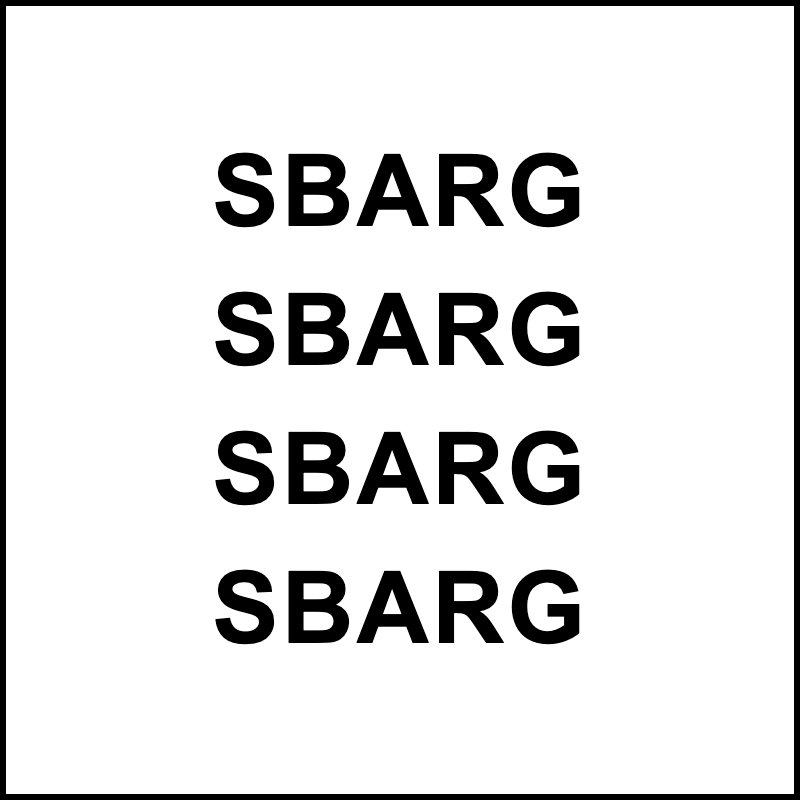
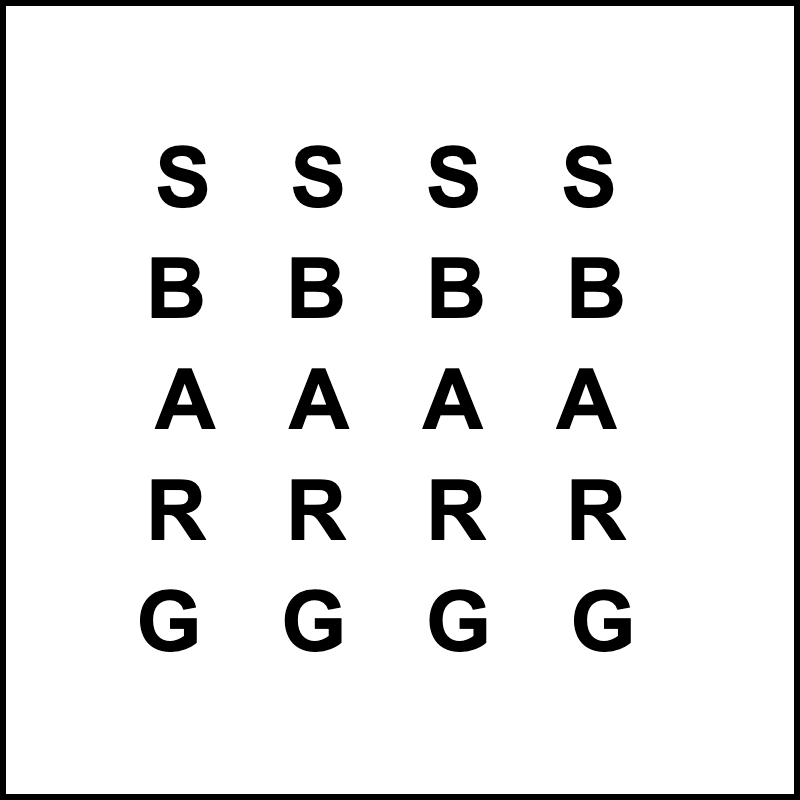
Redo UP FOR GRABS as a letter grid
5 rows x 4 columns, each row one letter repeated 4x (S/B/A/R/G).
Reading each column top to bottom still spells GRABS backward
(stacked = UP), with 4 columns of it (FOR).

Claude-Session: https://claude.ai/code/session_01QFAXVa8qbvmR8EUvRPsQ6z

Changed region(s): [[0.1562, 0.3125, 0.8125, 0.8125], [0.1875, 0.1562, 0.7812, 0.2812]]

diff --git a/js/puzzles.js b/js/puzzles.js
@@ -937,7 +937,7 @@ export const PUZZLES = [
     id: 'up-for-grabs',
     answer: 'UP FOR GRABS',
     image: 'images/cards/card-131.png',
-    description: 'html: The word "GRABS" spelled backward as "SBARG", repeated 4 times stacked vertically (the stack reads upward = "UP", 4 repeats = "FOR" (four), "SBARG" backward = "GRABS" — "UP FOR GRABS").',
+    description: 'html: A 5-row by 4-column grid of letters — each row is one letter repeated 4 times ("S S S S" / "B B B B" / "A A A A" / "R R R R" / "G G G G"). Reading each column top to bottom spells "SBARG" (GRABS backward, stacked = "UP"), and there are 4 columns of it ("FOR", four) — "UP FOR GRABS".',
     category: 'phrase',
   },
   {